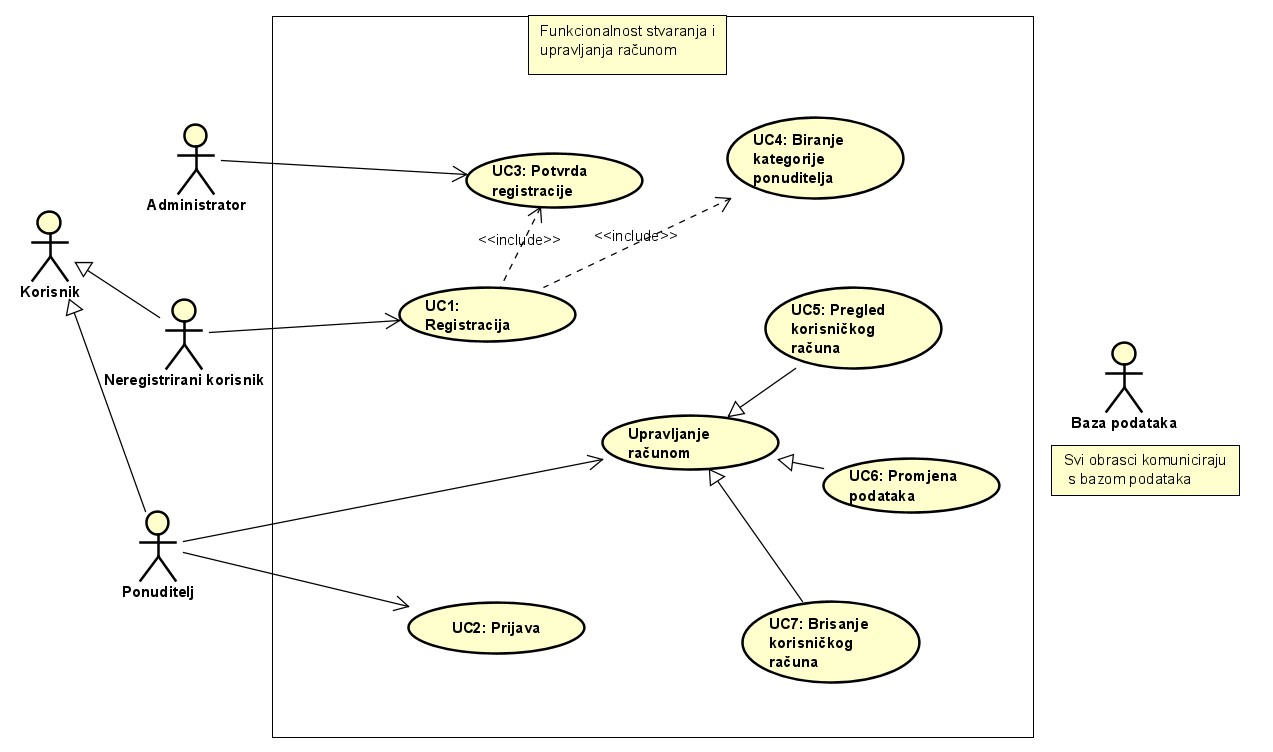
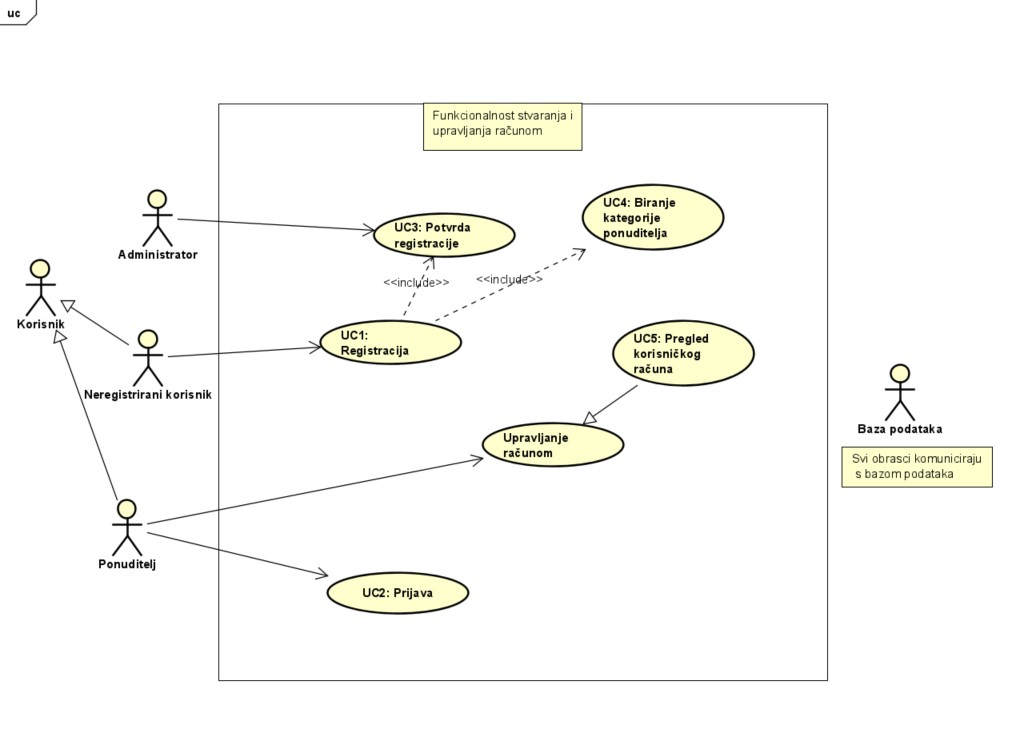
updateani obrasci uporabe

diff --git a/Dokumentacija/Specifikacija_programske_potpore.tex b/Dokumentacija/Specifikacija_programske_potpore.tex
@@ -203,62 +203,7 @@
 						
 					\end{packed_item}
 
-                    \noindent \underbar{\textbf{UC6 - Promjena podataka}}
-					\begin{packed_item}
-	
-						\item \textbf{Glavni sudionik: } Ponuditelj
-						\item  \textbf{Cilj:} Ponuditelj mijenja podatke svog korisničkog računa
-						\item  \textbf{Sudionici:} Baza podataka
-						\item  \textbf{Preduvjet:} - Ponuditelj je prijavljen
-						\item  \textbf{Opis osnovnog tijeka:}
-						
-						\item[] \begin{packed_enum}
-	
-							\item Ponuditelj bira opciju "Moj račun"
-							\item Ponuditelj bira opciju "Uredi račun"
-	                            				\item Ponuditelj mijenja podatke
-                            					\item Ponuditelj sprema izmjene
-                            					\item Baza podataka se ažurira
-						\end{packed_enum}
-						
-						\item  \textbf{Opis mogućih odstupanja:}
-						
-						\item[] \begin{packed_item}
-	
-							\item[2.a] Ponuditelj unosi podatke u krivom formatu ili su podaci već korišteni od strane drugih ponuditelja
-							\item[] \begin{packed_enum}
-								
-								\item Aplikacija obavještava da je došlo do greške i zašto
-								\item Ponuditelj opet pokušava promijeniti podatke ili odustaje
-							\end{packed_enum}
-
-                            				
-						\end{packed_item}
-					\end{packed_item}
-
-                    \noindent \underbar{\textbf{UC7 - Brisanje korisničkog računa}}
-					\begin{packed_item}
-	
-						\item \textbf{Glavni sudionik: } Ponuditelj
-						\item  \textbf{Cilj:} Ponuditelj briše svoj račun sa web stranice
-						\item  \textbf{Sudionici:} Baza podataka
-						\item  \textbf{Preduvjet:} - Ponuditelj ima izrađen korisnički račun
-						\item  \textbf{Opis osnovnog tijeka:}
-						
-						\item[] \begin{packed_enum}
-	
-							\item Ponuditelj bira opciju "Moj račun"
-                            					\item Ponuditelj bira opciju brisanja korisničkog računa
-							\item Aplikacija traži potvrdu brisanja
-                            					\item Ponuditelj potvrđuje brisanje korisničkog računa
-                            					\item Miču se podaci o računu iz baze podataka
-                            					\item Ponuditelj je vraćen na stranicu za upis
-						\end{packed_enum}
-						
-						\item  \textbf{Opis mogućih odstupanja: -}
-					\end{packed_item}
-
-                    \noindent \underbar{\textbf{UC8 - Dodavanje objave}}
+                    \noindent \underbar{\textbf{UC6 - Dodavanje objave}}
 					\begin{packed_item}
 	
 						\item \textbf{Glavni sudionik: } Ponuditelj
@@ -294,7 +239,7 @@
 						\end{packed_item}
 					\end{packed_item}
 
-                    \noindent \underbar{\textbf{UC9 - Mijenjanje objave}}
+                    \noindent \underbar{\textbf{UC7 - Mijenjanje objave}}
 					\begin{packed_item}
 	
 						\item \textbf{Glavni sudionik: } Ponuditelj
@@ -331,7 +276,7 @@
 						\end{packed_item}
 					\end{packed_item}
 
-                    \noindent \underbar{\textbf{UC10 - Brisanje objave}}
+                    \noindent \underbar{\textbf{UC8 - Brisanje objave}}
 					\begin{packed_item}
 	
 						\item \textbf{Glavni sudionik: } Ponuditelj
@@ -352,7 +297,7 @@
 						\item  \textbf{Opis mogućih odstupanja: -}
 					\end{packed_item}
 
-                    \noindent \underbar{\textbf{UC11 - Pregled objave}}
+                    \noindent \underbar{\textbf{UC9 - Pregled objave}}
 					\begin{packed_item}
 	
 						\item \textbf{Glavni sudionik: } Korisnik (registrirani i neregistrirani)
@@ -369,7 +314,7 @@
 						\item  \textbf{Opis mogućih odstupanja: -}
 					\end{packed_item}
 
-                    \noindent \underbar{\textbf{UC12 - Pregled profila ponuditelja}}
+                    \noindent \underbar{\textbf{UC10 - Pregled profila ponuditelja}}
 					\begin{packed_item}
 	
 						\item \textbf{Glavni sudionik: } Korisnik
@@ -387,7 +332,7 @@
 						\item  \textbf{Opis mogućih odstupanja: -}
 					\end{packed_item}
 
-                    \noindent \underbar{\textbf{UC13 - Zahtjev od neregistriranog korisnika da se knjiga prevede}}
+                    \noindent \underbar{\textbf{UC11 - Zahtjev od neregistriranog korisnika da se knjiga prevede}}
 					\begin{packed_item}
 	
 						\item \textbf{Glavni sudionik: } Neregistrirani korisnik
@@ -407,7 +352,7 @@
 						\item  \textbf{Opis mogućih odstupanja: -}
 					\end{packed_item}
 
-                    \noindent \underbar{\textbf{UC14 - Zahtjev stranom izdavaču za prijevod knjige}}
+                    \noindent \underbar{\textbf{UC12 - Zahtjev stranom izdavaču za prijevod knjige}}
 					\begin{packed_item}
 	
 						\item \textbf{Glavni sudionik: } Izdavač
@@ -425,7 +370,7 @@
 						\item  \textbf{Opis mogućih odstupanja: -}
 					\end{packed_item}
 
-                    \noindent \underbar{\textbf{UC15 - Pretraživanje po lokaciji}}
+                    \noindent \underbar{\textbf{UC13 - Pretraživanje po lokaciji}}
 					\begin{packed_item}
 	
 						\item \textbf{Glavni sudionik: } Korisnik
@@ -442,7 +387,7 @@
 						\item  \textbf{Opis mogućih odstupanja: -}
 					\end{packed_item}
 
-                    \noindent \underbar{\textbf{UC16 - Detaljna pretraga objava}}
+                    \noindent \underbar{\textbf{UC14 - Detaljna pretraga objava}}
 					\begin{packed_item}
 	
 						\item \textbf{Glavni sudionik: } Korisnik
@@ -454,7 +399,7 @@
 						\item[] \begin{packed_enum}
 	
 							\item Korisnik klikne na opciju pretraživanja objava
-							\item Korisnik ispunjava barem jedno od sljedećih polja: naziv knjige, naziv autora, godina izdanja, redni broj izdanja, kategorija izdavača, žanr knjige, ISBN, oznaka vrste knjige i ime ponuditelja
+							\item Korisnik ispunjava barem jedno od sljedećih polja za detaljniju pretragu: naziv knjige, naziv autora, cijena(od/do), , godina izdanja(od/do), redni broj izdanja, kategorija izdavača, žanr, ISBN, oznaka vrste knjige i ime ponuditelja
                             					\item Stranica izbacuje knjige koje se poklapaju sa upisanim karakteristikama
 						\end{packed_enum}
 						
@@ -494,7 +439,7 @@
 				
 			\subsection{Sekvencijski dijagrami}
 				
-				\textbf{Obrazac uporabe UC15 – Pretraživanje po lokaciji i UC13 – Zahtjev da se prevede knjiga}\\\\
+				\textbf{Obrazac uporabe UC13 – Pretraživanje po lokaciji i UC11 – Zahtjev da se prevede knjiga}\\\\
 				Neregistrirani korisnik šalje zahtjev za pregled karte ponuditelja knjiga. Poslužitelj dohvaća ponuditelje knjiga iz baze i vraća prikaz karte sa označenim adresama ponuditelja. Korisnik odabire ponuditelja koji je izdavač. Poslužitelj dohvaća podatke o odabranom ponuditelju iz baze. Vraća korisniku listu svih knjiga dotičnog ponuditelja. Korisnik dodatno filtrira ponudu knjiga po želji. Korisnik traži prijevod od izdavača. U bazi podataka povećava se broj zatraženih prijevoda za tu knjigu.\\
 				
 				\begin{figure}[h]
@@ -516,7 +461,7 @@
 				\end{figure}
 				\eject
 				
-				\textbf{Obrazac uporabe UC8 – Dodavanje objave knjige}\\\\
+				\textbf{Obrazac uporabe UC6 – Dodavanje objave knjige}\\\\
 				Ponuditelj odabire opciju za dodavanje nove objave. Poslužitelj mu otvara stranicu za dodavanje knjiga. Nakon što ponuditelj unese sve potrebne podatke u dobrom obliku, naslov se dodaje u bazu podataka te javlja ponuditelju da je knjiga uspješno dodana. Ako želi, ponuditelj može dodati primjerke tog naslova.\\
 				
 				\begin{figure}[h]
@@ -527,7 +472,7 @@
 				\end{figure}
 				\eject
 				
-				\textbf{Obrazac uporabe UC16 - Detaljna pretraga objava knjiga i UC11 - pregled objave}\\\\
+				\textbf{Obrazac uporabe UC14 - Detaljna pretraga objava knjiga i UC9 - pregled objave}\\\\
 				Neregistrirani korisnik odabire opciju pretraživanja objava, a poslužitelj mu vraća formu za pretragu. Korisnik unosi potrebne podatke koje poslužitelj uspoređuje s onima u bazi podataka. Ako postoji barem jedna takva knjiga, poslužitelj prikazuje listu knjiga koje odgovaraju podatcima koje je unio neregistrirani korisnik. Ako korisnik to želi, može detaljnije pregledati podatke o nekoj objavi knjige klikom na tu objavu. Poslužitelj dohvaća potrebne podatke iz baze i prikazuje ih korisniku.\\
 				
 				\begin{figure}[htbp]
